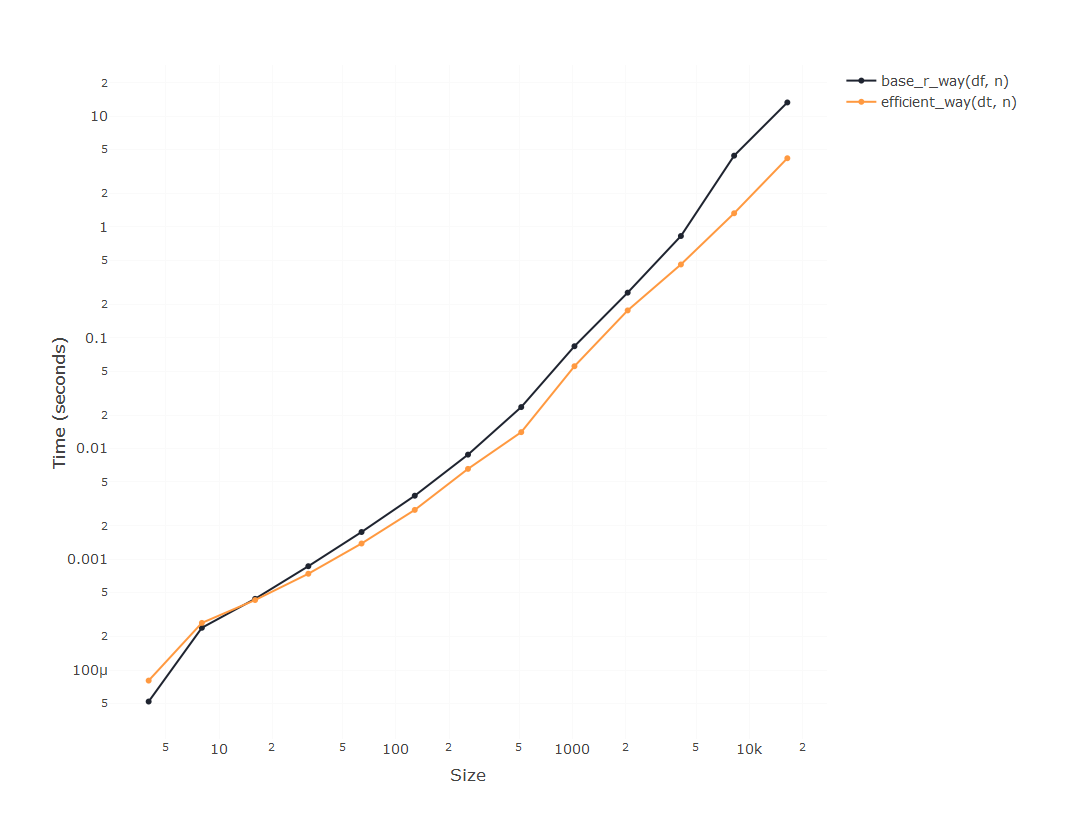
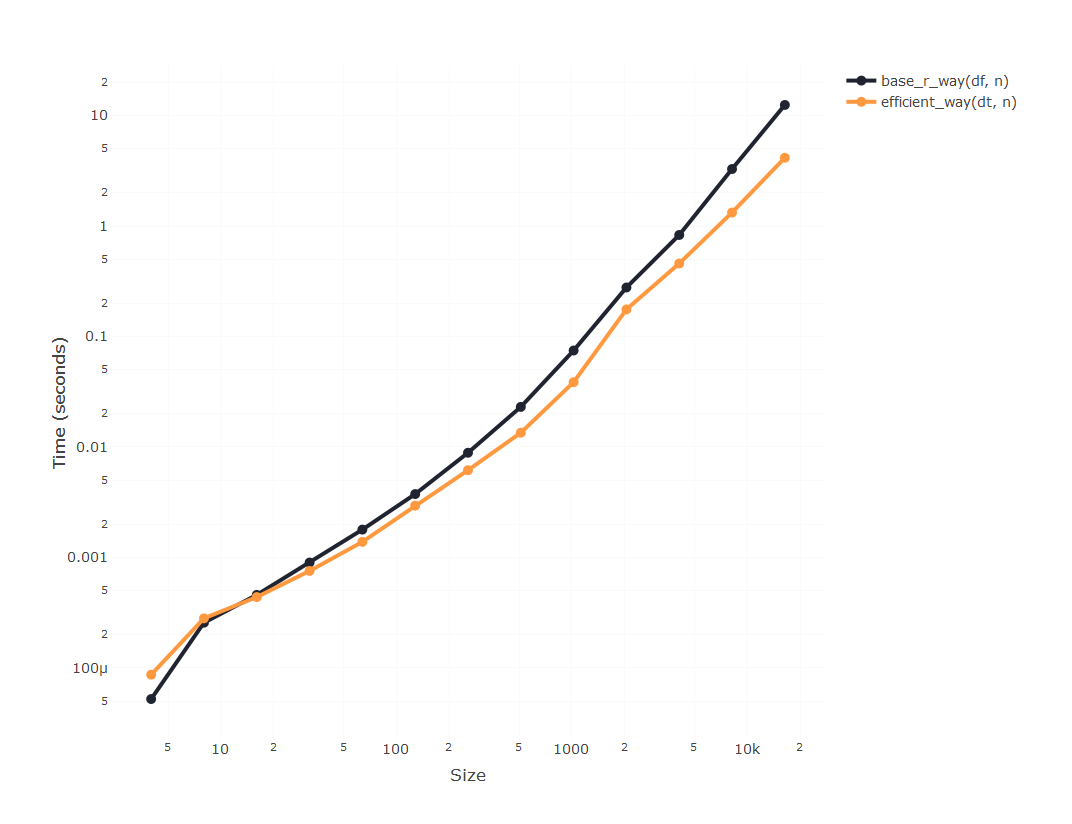
wider lines

diff --git a/_posts/rmarkdown/efficient_looping.md b/_posts/rmarkdown/efficient_looping.md
@@ -40,7 +40,10 @@ results %>%
   select(expression, median, n) %>%
   mutate(expression = as.character(expression)) %>%
   plot_ly(colors = c("#1f2430", "#4CCFE6", "#FFCC66", "#F07171", "#FF9940")) %>% 
-  add_trace(x = ~n, y = ~median, color = ~expression, type = "scatter", mode = "lines+markers") %>% 
+  add_trace(x = ~n, y = ~median, color = ~expression, 
+            type = "scatter", mode = "lines+markers",
+            line = list(width = 4),
+            marker = list(size = 10)) %>% 
   layout(xaxis = list(type = "log", title = "Size", gridcolor = "#fafafa"),
          yaxis = list(type = "log", title = "Time (seconds)", gridcolor = "#fafafa"),
          font = list(size = 14))
